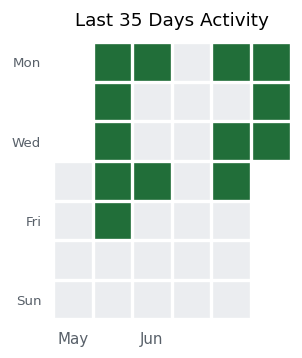
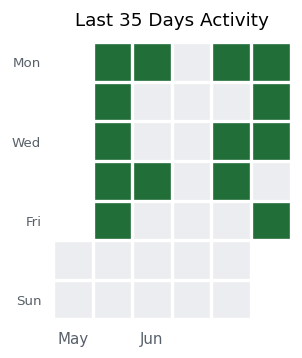
Lab Entry: 2026-06-26

Changed region(s): [[0.8344, 0.5531, 0.9834, 0.676]]

diff --git a/README.md b/README.md
@@ -1,7 +1,7 @@
-# 🏃 平均週 2.4 回でつーがく中！
+# 🏃 平均週 2.5 回でつーがく中！
 <p align="center">
   <img src="./monthly_report.png" alt="Attendance Calendar">
 </p>
 
 ___
-*最終更新: 2026-06-24*
+*最終更新: 2026-06-26*
